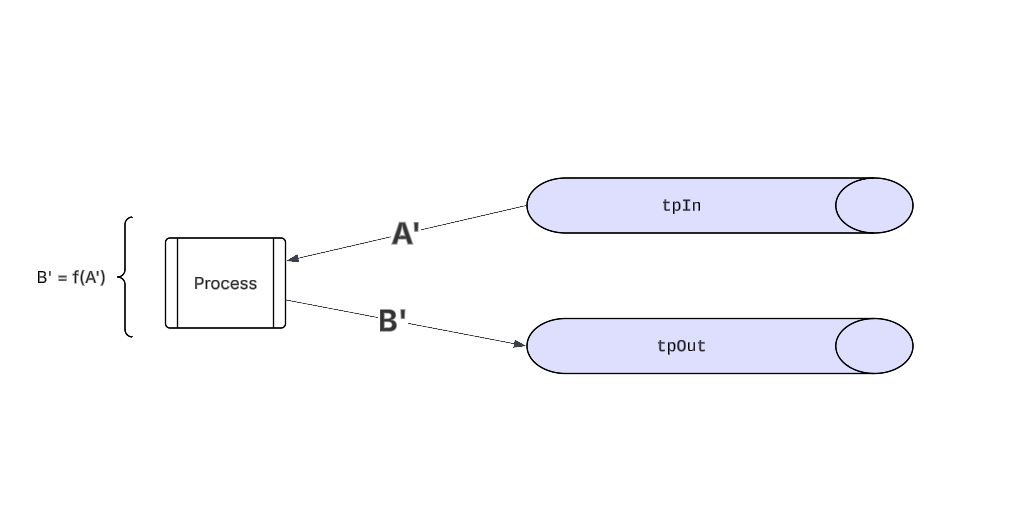
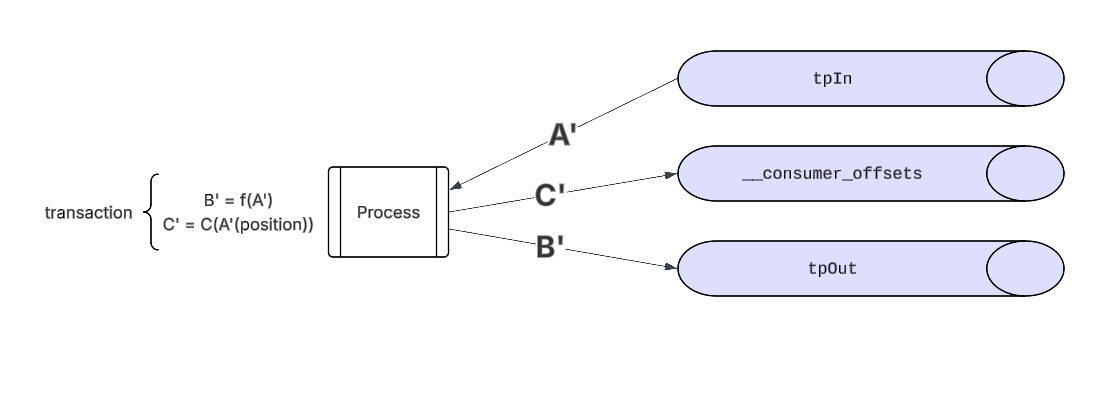
[draft] finished draft
- spell check
- rephrases and summaries
- pictures and formatting

diff --git a/drafts/eos_transactions.md b/drafts/eos_transactions.md
@@ -1,54 +1,61 @@
-Kafka provides developers an ecosystem in where millions of messages can be processed in a distributed fashion - allowing teams to build massive data ingestions platforms. One of the key aspects, not only to Kafka, but to any distributed messaging platform - is message delivery semantics. Defining these semantics is important, because it requires the developer to think about what happens to a message under failure. Failure happens all the time, so it's important to ask this question.
+---
+title: Kafka EOS and Transactions with Rust
+blurb: Dive into Kafka's delivery semantics, and learn how exactly once semantics are implemented with Kafka's transactional API, with examples written in Rust.
+---
+Kafka provides developers an ecosystem in where millions of messages can be processed in a distributed fashion - allowing teams to build massive data ingestion platforms. One of the key aspects, not only to Kafka, but to any distributed messaging platform - is message delivery semantics. Defining these semantics is important, because it requires the developer to think about what happens to a message under failure - which happens all the time.
 
-Kafka provides three delivery semantics out of the box, which can be configured directly onto the producer's configuration - all three with different use cases. There are
-    - *at most once* semantics - which offers the highest throughput of sent messages - but the least durability of written messages.
-    - *at least once* semantics - offers strong durability of written messages - messages are always written. However under failures messages could be duplicated.
-    - *exactly once* semantics - offers the strongest durability of written messages - messages are written exactly once - even under failure.
+Kafka provides three delivery semantics out of the box, which can be configured directly onto the producer's configuration - all three with different use cases. They are
+
+- *at most once* semantics: offers the highest throughput of sent messages - but the least durability of written messages.
+
+- *at least once* semantics: offers strong durability of written messages - messages are always written. However under failures messages could be duplicated.
+
+- *exactly once* semantics: offers the strongest durability of written messages - messages are written exactly once - even under failure.
 
 *at most once* and *at least once* semantics are the easiest to configure - both just require fine tuning various settings on the Kafka producer/consumer. However - for *exactly  once* semantics - it requires fine tuning settings on both the kafka producer **and** consumer, as well as writing application side code for transactions that enable *exactly once* **processing and delivery** of messages.
 
-> side note - these semantics apply to both the **delivery** of a message by a producer - and the **receipt/processing** of a message from the consumer. These semantics can be mixed and matched with each other if different guarantees are needed for the **flow** of delivery -> processing work cycle. *exactly once* semantics is able to offer the strongest guarantees on **both** the producer and consumer.
+> side note - these semantics apply to both the **delivery** of a message by a producer - and the **receipt/processing** of a message from the consumer. These semantics can be mixed and matched with each other if different guarantees are needed for the **flow** of delivery &DoubleLongRightArrow; processing work cycle. *exactly once* semantics is able to offer the strongest guarantees on **both** the producer and consumer.
 
 # At Most Once Semantics and At Least Once Semantics
 Before getting to *exactly once* semantics - we'll go over the two basic settings on both the producer and consumer side.
 
 - *at most once semantics*:
     - **Delivery:** Messages are delivered to the topic at most once. Configuring *at most once* means that when a producer sends a message - it will only send the message at most one time. This means that the producer doesn't have to wait for an acknowledgement from the leader - and can process/send messages asynchronously without handling any retries or acknowledgements - providing the fastest throughput and latency of all the semantics. However in cases of a failure - messages can be lost.
-        - to configure *at most once semnatics*
+        - to configure *at most once semantics*
             - set `retries=0`
             - set `acks=0`, since you're not waiting for any acknowledgement from the leader.
             - set `enable.idempotence=false` - as setting it to true will conflict with the other settings. (Kafka will automatically set this for you)
         - In short - this can be seen as *fire and forget*
-    - **Processing:** Messages are read by the topic at most once - meaning once the consumer has polled the messages - it then commits the consumed offset offset (place in the partition) - and then processes the message. In event of failure, it's not guaranteed that each message will be proecssed. For example, if the consumer crashes after commiting it's offset - but before processing the messages - the consumer that takes over will continue where the other consumer left off - skipping the message.
-        - to configure *at most once semantics* - you usually want to commit offsets before processing messages - and that can be done within the application code.
+    - **Processing:** Messages are read by the topic at most once. After the consumer has polled the messages the consumed offset (place in the partition) is committed. Message processing can happen before or after the commit, depending on application logic. In event of failure, it's not guaranteed that each message will be processed. For example, if the consumer crashes after committing it's offset - but before processing the messages - the consumer that takes over will continue where the other consumer left off - skipping the message.
+        - to configure *at most once semantics* - you usually want to commit offsets after/before processing messages - and that can be done within the application code.
             - set `enable.auto.commit=false`, and commit right after you poll/batch the messages.
         - it's best to let the consumer handle the auto commit - unless you need **exact** *at most once* semantics.
-            - set `enable.auto.commit=true` - however this could process messages multiple times (*at least once*). This could happen when the consumer has consumed a message - but processed them before commiting. Therefore when a consumer dies while processing the messages - but before committing them - the consumer that takes over will reprocess those messages.
+            - set `enable.auto.commit=true` - however this could process messages multiple times (*at least once*). This could happen when the consumer has consumed a message - but processed them before committing. Therefore when a consumer dies while processing the messages - but before committing them - the consumer that takes over will reprocess those messages.
 
 - *at least once semantics*:
-    - **Delivery:** Messages are delivered to the broker at least once. When configuring *at least once once*, when a producer sends a message, it will wait for the broker to acknowledge that message. Once the broker acknowledges that message - it means that the message has been written to that broker (topic) - and depending on the `ack` setting, been persisted to that topic.
+    - **Delivery:** Messages are delivered to the broker at least once. With *at least once once* delivery, when a producer waits for the broker to acknowledge that message. Once the broker acknowledges that message - it means that the message has been written to that broker (topic) - and depending on the `ack` setting, been persisted to that topic. If the acknowledgement fails the producer is free to retry sending the message.
         - to configure *at least once semantics*
             - set `retries` to the default settings (which is essentially unlimited retries)
             - set `delivery.timeout.ms` to an upper bound in `ms` that directly correlates to `retries`
-            - most importantly set `acks=all`. If `acks=0` - messages could be lost because the producer can send a message to the broker, but if the message fails to be delivered - or the broker failed, the producer will not wait for any acknowledgement - and the `retries` setting will not be invoked. Additionally - if `acks=1`, then the leader will acknowledge that the message has been written without replicating it to the followers. Therefore a message could be lost if the leader acknowledges the message - but fails to replicate it to the followers then dies. When `acks=all` - in times of system failure - we know that a message has been successfully written/replicated to a topic because the leader will only acknowledge a successful message IF all replicas have acknowledged it.
+            - most importantly set `acks=all`. If `acks=0` - messages could be lost because the producer can send a message to the broker, but if the message fails to be delivered - or the broker failed, the producer will not wait for any acknowledgement - and the `retries` setting will not be invoked. Additionally - if `acks=1`, then the leader will acknowledge that the message has been written without replicating it to the followers. Therefore a message could be lost if the leader acknowledges the message - but fails to replicate it to the followers then dies. When `acks=all` - in times of system failure - we know that a message has been successfully written/replicated to a topic because the leader will only acknowledge a successful message **IF** all in-sync replicas have acknowledged it.
         > Optionally set `enable.idempotence=true`. This setting is generally already set to true - and enables that the producer will have only one copy the message written to the broker. This also effectively sets the delivery semantics to *exactly once* on the producer's side. We will go over this more in the *exactly once* section.
-        - therefore with this configuration, messages are delivered one or more times. In the chance of a system failure - messages are never lost - but may be delivered more than once. With idempotence enabled - you've also configured *exactly once* on the producer side.
-        > also in practice you set `retries` to a high number, and set `request.delivery.timeout` to set the duration a producer will retry a message.
+        -  messages are delivered one or more times. In the chance of a system failure - messages are never lost - but may be delivered more than once. With idempotence enabled - you've also configured *exactly once* on the producer side.
+        > also in practice you set `retries` to a high number (the default value), and set `request.delivery.timeout` to set the duration a producer will retry a message.
     - **Processing:** Messages are processed by the consumer at least once. In order to configure *at least once* for the consumer you'll have to be stricter on how you process messages from the topic-partition and how you commit offsets. To achieve this semantic, the consumer reads a set of messages, processes them, then commits the offsets.
-        - to configure *at least once* semantics - you usually want to commit offsets after processing messages. Therefore in the case of failing a batch - messages can be reconsumed at the same offset - or if the consumer fails before committing - it can start again at the same place. This means that messages will be processed at least once.
+        - to configure *at least once* semantics - you usually want to commit offsets after processing messages. Therefore in the case of failing a batch - messages can be re-consumed at the same offset - or if the consumer fails before committing - it can start again at the same place. This means that messages will be processed at least once.
             - set `enable.auto.commit=false`, and commit offsets after you process the messages.
 
 # Failure Scenarios
 
 Let's go over some common failure scenarios that can occur during message delivery to a topic.
 
-## A) Message Ack Fails, But is written to the log
+## A) Message Ack Fails, But Is Written to the Log
 
 # ![](/static/pictures/eos_images/diag-f-0.png){.align-center} 
 
-A producer could send over a message to the leader of the topic partition, and the leader is able to successfuly write and replicate that record to the log. The leader then sends an acknowledgement back to the producer, but that acknowledgement is lost for what ever reason. If your producer is configured with retries then the producer will retry the produce message, and the message will be written twice into the topic partition.
+A producer could send over a message to the leader of the topic partition, and the leader is able to successfully write and replicate that record to the topic log. The leader then sends an acknowledgement back to the producer, but that acknowledgement is lost for what ever reason. If your producer is configured with retries then the producer will retry the produce message, and the message will be written twice into the topic partition.
 
-## B) Producer Fails While Processing Messages
+## B) Producer Crashes While Processing Messages
 
 # ![](/static/pictures/eos_images/diag-f-1.png){.align-center} 
 A producer could be in the process of producing many messages to the topic partition, however it crashes half way through. However based on the producer's application code what should it do? Should it restart from where it left off - which could reintroduce duplicates? If you're going for *at least once* delivery semantics, that would be the way to go, or if you're going for *at most once* delivery semantics - you would pick up from where it crashes.
@@ -56,46 +63,55 @@ A producer could be in the process of producing many messages to the topic parti
 # ![](/static/pictures/eos_images/diag-f-2.png){.align-center} 
 > Restarting the producer instance caused the duplicate batch to send again.
 
-## C) Consumer Fails While Processing Messages
+## C) Consumer Crashes While Processing Messages
 
 # ![](/static/pictures/eos_images/diag-f-3.png){.align-center} 
 A consumer could fail while in the process of consuming messages from a topic partition. In the event that the consumer crashes before committing their offset - when the consumer is started up again then it will consume the same records again - which introduces duplicates on the consumer side.
 
+---
 
-As you can see, failures can happen during the producer, broker, and consumer side. Depending on how you've coded and configured the producer and consumer, you'll get different delivery and processing semantics on both ends. Depending on the requirements of your architecture - you may be satisfied to leave it off on *at least/most once* semantics - however some systems require stronger delivery semantics - such as *exactly once* in both it's delivery and processing guarantees in face of failures.
+As you can see, failures can happen during the producer, broker, and consumer workflow. Depending on how you've coded and configured the producer and consumer, you'll get different delivery and processing semantics on both ends. Depending on the requirements of your architecture - you may be satisfied to leave it off on *at least/most once* semantics - however some systems require stronger delivery semantics - such as *exactly once* in both it's delivery and processing guarantees in face of failures.
 
 
 # Exactly Once Semantics (EOS)
 
-Simply put, in a Kafka architecture *exactly once* means that a message is delivered *exactly once* to the broker - **and** processed *exactly once* by the consumer - even in the event of failure. This not only requires the correct Kafka configuration on the producer and consumer side, but also application logic on the producer and consumer code.
+Simply put, in Kafka *exactly once* means that a message is delivered *exactly once* to the broker - **and** processed *exactly once* by the consumer - even in the event of failure. This not only requires the correct Kafka configuration on the producer/consumer side, but also application logic implementing the transactional API.
 
-We mentioned earlier [insert link here] that the producer can actually implement *exactly once* delivery by setting `acks=all`, settings retries, and `enable.idempotence=true`. This ensures that a message has been delivered to a topic partition exactly one time. This helps solve scenario A) and broker failures. However this doesn't solve issues B) - as the Kafka producer API does not know the inner workings of your code - and doesn't solve issue C) since the consumer could fail and re process the messages again.
+We mentioned earlier that the producer can actually implement *exactly once* delivery by setting `acks=all`, retries to default, and `enable.idempotence=true`. This ensures that a message has been delivered to a topic partition exactly one time. This helps solve scenario **A)** and broker failures. However this doesn't solve issues **B)** - as the Kafka producer API does not know the inner workings of your code - and doesn't solve issue **C)** since the consumer could fail and reprocess the messages again.
 
 This is where Kafka transactions steps in.
 
 
 # Kafka Transactions
 
-Transactions in Kafka allow atomic multi-partition writes which will be reflected onto the consumer side. What this means is that a producer can create a transaction, write to many topics, and then commit or abort that transaction. If the producer committed that transaction - then the consumers reading from those topics will be able to read those messages. If the producer aborted that transaction - then the consumers reading from those topics will **not** read thoses messages.
+Transactions in Kafka allow atomic multi-partition writes. What this means is that a producer can create atomically write to many topics, and then commit or abort that transaction. If the producer committed that transaction - then the consumers reading from those topics will be able to read those messages. If the producer aborted that transaction - then the consumers reading from those topics will **not** read those messages.
 
 Ok, so a producer can now perform atomic writes (either all messages are readable or none are). So how exactly does that help for *exactly once* semantics?
 
-In many Kafka workflows, you'll have a process consuming messages from a kafka topic, performing some operation on them - and then producing output messages back into another kafka topic. This is called a *read - process - write* pattern. Processes that employ this pattern can send their consumed offsets back to the `__consumed_offsets` topic as part of the transaction process - which durably writes their position a topic partition if the transaction is committed. If - for some reason - that a process crashes before sending their consumed offsets to the transaction manager and committing, then the downstream consumers won't be able to see that process's produces (from a failed transaction) - which is what EOS provides to the consumed and produced messages. Messages that are *read - processed - produced* are wrapped up atomically and are only processed once. Essentially produces that are sent/created due to a batch processing of various messages are wrapped atomically with each other.
+In many Kafka workflows, you'll have a process consuming messages from a kafka topic, performing some operation on them - and then producing output messages back into another kafka topic. This is called a *read - process - write* pattern. Processes that employ this pattern can send their consumed offsets back to the `__consumed_offsets` topic **as part of the transaction process** - which durably writes their position if the transaction is committed. This is the piece of the puzzle that enables EOS.
+
+If - for some reason - that a process crashes before sending their consumed offsets to the transaction manager and committing, then the downstream consumers won't be able to see that process's produces (from a failed transaction) - which is what EOS provides to the consumed and produced messages. The process is now able to **retry** the transaction with the guarantee that downstream consumers will only see messages once if it succeeds.
+
 
 # ![](/static/pictures/eos_images/diag-pwc-0.png){.align-center} 
-Let's run over an example: let's say there's an input topic `tpIn` and an output topic `tpOut`. We have a process that reads in messages from `tpIn`, performs some function on that message, and produces out to `tpOut`. Message A' is marked consumed when offset X(A') is sent to the offsets topic and then committed. Message B' is mapped to the successful output of the transaction - and will only be seen by downstream consumers if the transaction was able to be completed. In fact - the producer could've sent to multiple different topic-partitions within the same transaction - and they'll only be seen by downstream consumers if the transaction was committed.
+Let's run over an example: let's say there's an input topic `tpIn` and an output topic `tpOut`. We have a process that reads in messages from `tpIn`, performs some function on that message, and produces out to `tpOut`. The process will then send it's consumed offsets, C(A'(position)), to `__consumer_offsets`. Message C' and B' are mapped to the transaction - and have become atomic.
+Upon a successful commit - downstream consumers will be able to see message B' - and the process's position will be durable saved. If there was any failure that occurred during the transaction process - then no messages will be sent out and the process is able to restart from it's previous offset.
 
-> It's important to note - downstream consumers will only read committed if `isolation.level=read_committed` is set. If it's set to `read_uncommitted` consumers will see aborted messages and messages that are still ongoing in a transaction.
-> It is also important to note that this *read - process -write* pattern only applies to within the Kafka Ecosystem - meaning the write portion of the pattern only applies to Kafka produces and doesn't apply to external systems processing.  
+> Downstream consumers will only read committed if `isolation.level=read_committed` is set. If it's set to `read_uncommitted` consumers will see aborted messages and ongoing transactional messages.
+
+> It is important to note that this *read - process -write* pattern only applies to within the Kafka Ecosystem - meaning the write portion of the pattern only applies to Kafka produces and doesn't apply to external systems processing.  
 
 ## Transactional.id
 
-Kafka introduces a `transactional.id` to help combat a zombie. Let's say that a consumer is lagging behind or we think that it has failed, and we bring up another consumer to perform the task. However now we have two processes that could be potentially producing multiple duplicate messages. Transactional id's help prevent this because the producer will have to register it's ID to the transactional coordinator on startup. When the same `transactional.id` is seen again, the coordinator will increase it's `epoch` - which the coordinator uses to mark which is the most recent producer. Any transaction operation with an older epoch is fenced and the application code could die gracefully.
+Kafka introduces a `transactional.id` to help combat a zombie. Let's say that a consumer is lagging behind or we think that it has failed, and we bring up another consumer to perform the task. However, now we have two processes that could be potentially producing multiple duplicate messages. Transactional id's help prevent this because the producer will have to register it's ID to a transactional coordinator on startup. When the same `transactional.id` is seen again, the coordinator will increase it's `epoch` - which the coordinator uses to mark which is the most recent producer. Any transaction operation with an older epoch is fenced and the application code could die gracefully.
 
 ## Transactions Workflow
 To help facilitate transactions, Kafka introduces a Transaction Coordinator (TXN Coordinator), a broker chosen to help facilitate requests from the Producers and other brokers.
+
+# ![](/static/pictures/eos_images/diag-tx-coord.png){.align-center} 
+
 1. Producer & Transaction Coordinator Interaction
-    - upon startup the producer chooses a `transactional.id` and initiates a transaction with the TXN Coordiantor. 
+    - upon startup the producer chooses a `transactional.id` and initiates a transaction with the TXN Coordinator. 
 
 2. Txn Coordinator
     - The TXN Coordinator keeps track of a transaction log - a durable kafka topic that keeps track of transaction state amongst many different transactions. The producer will send updates to the coordinator to write to this log.
@@ -115,13 +131,13 @@ Now that we have a basic understanding about Kafka EOS - I'll show you how to us
 
 ## Configuration
 To configure a transactional producer, you'll need to set
-    - `enable.idempotence=true`
-    - Set retries to a high number (leave default)`retries=2147483647`
-    - `acks=all`
-    - `transactional.id` - set a transactional ID for this process instance.
+- `enable.idempotence=true`
+- Set retries to a high number (leave default) `retries=2147483647`
+- `acks=all`
+- `transactional.id` - set a transactional ID for this process instance.
 To configure a transaction aware consumer, you should set
-    -`isolation.level=read_committed`
-    -`enable.auto.commit=false`
+-`isolation.level=read_committed`
+-`enable.auto.commit=false`
 
 The transactional producer and consumer should sit in the same process space in order for the transactional producer to be able to send the consumed offsets as part of the transaction
 
@@ -133,36 +149,36 @@ We'll be using the rdkafka Rust module to implement EOS transactions, however yo
 
 ## Transactional Producer API 
 
-Modern Kafka libraries will expose the transactional producer API methods through a Producer class. Taking a look into rdkafka's documentation https://docs.rs/rdkafka/latest/rdkafka/producer/trait.Producer.html, we can see that it exposes five methods that help manage transactions to the TXN(Transaction) Coordinator.
-    - `fn init_transactions<T: Into<Timeout>>(&self, timeout: T) -> KafkaResult<()>;`
-    - `fn begin_transaction(&self) -> KafkaResult<()>;`
-    - `fn send_offsets_to_transaction<T: Into<Timeout>>(
+Modern Kafka libraries will expose the transactional producer API methods through a Producer class. Taking a look into [rdkafka's documentation](https://docs.rs/rdkafka/latest/rdkafka/producer/trait.Producer.html), we can see that it exposes five methods that help manage transactions to the TXN(Transaction) Coordinator.
+- `fn init_transactions<T: Into<Timeout>>(&self, timeout: T) -> KafkaResult<()>;`
+- `fn begin_transaction(&self) -> KafkaResult<()>;`
+- `fn send_offsets_to_transaction<T: Into<Timeout>>(
         &self,
         offsets: &TopicPartitionList,
         cgm: &ConsumerGroupMetadata,
         timeout: T,
     ) -> KafkaResult<()>;`
-    - `fn commit_transaction<T: Into<Timeout>>(
+- `fn commit_transaction<T: Into<Timeout>>(
         &self,
         timeout: T,
     ) -> KafkaResult<()>;`
-    - `fn abort_transaction<T: Into<Timeout>>(&self, timeout: T) -> KafkaResult<()>;`
+- `fn abort_transaction<T: Into<Timeout>>(&self, timeout: T) -> KafkaResult<()>;`
 
 
-### init_transactions()
+#### init_transactions()
 When the process is started - it needs to initiate transactions with the transaction coordinator. This method only needs to be called once per start up - and performs some useful operations. First - it checks if `transactional.id` is set in the producer's configuration. If it isn't it will throw an error.
 <!-- <screenshot of that error> -->
 This method will ensure that any transactions initiated by a previous producer with the same `transactional.id` are completed. Any transactions left open by such previous producer will be aborted - and those stale instances will have their epoch bumped by the newest producer - effectively fencing off those producers. Once these method has been run successfully - messages that are sent by this producer can only be a part of a transaction.
 
-### begin_transactions()
+#### begin_transactions()
 This method begins a transaction, which will send a request to the TXN Coordinator to mark the TXN log as `begin_transaction`. If this method completes successfully - all messages sent will be apart of the transaction.
 
 Additionally at least one transaction operation must be performed before `transaction.timeout.ms` to avoid timing out the transaction. When a transaction times out - it will be aborted.
 
-### send_offsets_to_transactions
-This method is the magic that makes EOS transactions work within Kafka workflows. A successful call means that offset markers sent using this method - are bound to the transaction - and are comitted only if the transaction has been comitted successfully. Therefore - if there's an error - or a need to "roll back" sent messages - we can abort the transaction in order for downstream consumers (with `isolation.level=read_committed`) to skip these aborted messages. Upon producer restart we can process these messages again.
+#### send_offsets_to_transactions()
+This method is the magic that makes EOS transactions work within Kafka workflows. A successful call means that offset markers sent using this method - are bound to the transaction - and are committed only if the transaction has been committed successfully. Therefore - if there's an error - or a need to "roll back" sent messages - we can abort the transaction in order for downstream consumers (with `isolation.level=read_committed`) to skip these aborted messages. Upon producer restart we can process these messages again.
 
-### commit_transaction and abort_transaction
+#### commit_transaction() and abort_transaction()
 Mark the transaction as finished or aborted. Committing will let downstream consumers see the messages apart of that transaction, while aborting will hide these messages from those consumers.
     - committing will flush all outstanding messages (messages sent before this method was called). Messages that end up failing will throw an exception on this method, where the code has to then abort the transaction *if* the error is abortable. We'll go more in depth with this in the code.
     - aborting will purge all outstanding messages
@@ -201,7 +217,8 @@ fn create_consumer(brokers: &str, group_id: &str, topic: &str) -> LoggingConsume
     consumer
 }
 ```
-This configuration turns off the auto commit functionality of the consumer - which is important because we don't want to commit offsets before a transaction completes. Additionally we'll be using the `send_offsets_to_transactions` method to commit these offsets. Additionally the consumer should read committed messages in order to keep the EOS semantics alive - though it is optional to do. If `read_uncommitted` is set - then the consumer will read aborted messages.
+- This configuration turns off the auto commit functionality of the consumer - which is important because we don't want to commit offsets before a transaction completes.
+- consumer should read committed messages in order to keep the EOS semantics alive - though it is optional to do. If `read_uncommitted` is set - then the consumer will read aborted messages.
 
 ## Create Producer
 ```
@@ -217,7 +234,7 @@ fn create_producer(brokers: &str) -> FutureProducer {
 ```
 Sets the `transactional.id` and the `transaction.timeout.ms`. To choose a transactional ID - usually it's best to choose an ID that maps the process to it's assigned `topic-partition` - having an upper bound of the number of `topic-partitions` the producer is mapped to. Reason being - if a transaction ID is created from a producer that died - that created a new transactional ID - it doesn't reap the benefits of fencing.
 
-A list of all configurations can be seen here https://github.com/confluentinc/librdkafka/blob/master/CONFIGURATION.md
+A list of all configurations can be seen [here](https://github.com/confluentinc/librdkafka/blob/master/CONFIGURATION.md)
 
 
 ## Main Loop
@@ -274,7 +291,7 @@ A list of all configurations can be seen here https://github.com/confluentinc/li
                             Duration::from_secs(10)
                         ).expect("Failed to send offsets to transaction");
 
-                        // Commits the transaction - effectively commiting the consumer's offsets
+                        // Commits the transaction - effectively committing the consumer's offsets
                         // and letting downstream consumers read the messages
                         let commit_res = producer.commit_transaction(Duration::from_secs(2));
                         match commit_res {
@@ -320,34 +337,38 @@ Upon startup, the application will create the transactional producer and consume
 
 The application - before it performs any message consumption - will call `init_transactions`. 
 
-Once that completes - the application can now start processing messages. Within the `loop` block, the application will receive a message from the consumer, and then `begin_transaction`. The application will then perform some type of processing on the consumed message - either in parallel or concurrently (if processing IO). This example is not suitable for long running CPU bound tasks. Once the task has finished, the transactional producer will send that message off to the output topic.
+Once that completes - the application can now start processing messages. Within the `loop` block, the application will receive a message from the consumer, and then `begin_transaction`. The application will then perform some type of processing on the consumed message - either in parallel or concurrently (if processing IO).  Once the task has finished, the transactional producer will send that message off to the output topic.
+
+> This example is not suitable for long running CPU bound tasks.
 
 Once the message has been sent, the producer can send the consumer's consumed offsets along with the transaction, and then commit the transaction.
 
-This is the happy path - no errorrs, no brokers failing, no DNS errors, no socket timeouts, no parsing failures - no failures.
+This is the happy path - no errors, no brokers failing, no DNS errors, no socket timeouts, no parsing failures - no failures.
 
 ### Example
 
 Here we've set up a `kafka-console-producer.sh` and a `kafka-console-consumer.sh` which are scripts that kafka provides in it's `bin/` directory. These essentially produce/consumer messages off the specified topics. We've set up a local cluster and created two topics, `input-topic-0` and `output-topic-0`.
-<!-- <screenshot here> -->
+# ![](/static/pictures/eos_images/kafka-example-topics.png){.align-center} 
 
 We can now run our process specifying the input and output topics to consume and produce from. Below on the left screen, we've compiled and ran the example to ingest messages from `input-topic-0` and produce messages to `output-topic-0`. On the right screen we have the producer and consumer, which will receive messages from the example and produce messages from the example.
 
-<!-- <screenshot here> -->
+# ![](/static/pictures/eos_images/kafka-example-happy-setup.png){.align-center} 
 
-We see that we've sent the strings "hello" and "world" to `input-topic-0`, which is received by our program.
-The output clearly outlines our main loop. The rust-eos example waits until it receives a message from our `console-producer`. Once it receives the message - it will begin the transaction - and once that successfully returns we can now process the task safely. In this case it's producing it out to `output-topic-0`. If no errors occured in the `send_futs` then we know that all messages were sent and acked by the broker, thus in the `Ok(_)` block we could move on. The producer needs to associate the consumed offsets of the consumer with the transaction - which we can get from `consumer.position()`. If that message succeeds - we can successfully commit the transaction. After commiting the transaction we can now continue to receive messages.
-<screenshot here>
+In our console producer, let's send "hello" and "world" to `input-topic-0`, which is received by our program.
+# ![](/static/pictures/eos_images/kafka-example-happy-0.png){.align-center} 
+
+The output clearly outlines our main loop. The rust-eos example waits until it receives a message from our `console-producer`. Once it receives the message - it will begin the transaction - and once that successfully returns we can now process the task safely. In this case it's producing it out to `output-topic-0`. If no errors occurred in the `send_futs` then we know that all messages were sent and acked by the broker, thus in the `Ok(_)` block we could move on. The producer needs to associate the consumed offsets of the consumer with the transaction - which we can get from `consumer.position()`. If that message succeeds - we can successfully commit the transaction. After committing the transaction we can now continue to receive messages.
 
 ### `kafka-transactions.sh`
 
 Kafka provides a nifty script called `kafka-transactions.sh` in where you could see ongoing transactions within the cluster.
 <!-- <screenshot kafka-ts-0> -->
+# ![](/static/pictures/eos_images/kafka-ts-sh-0.png){.align-center} 
 Here we can see the CoordinatorId - which is the transaction leader(broker) that is responsible for the transaction. Additionally we can see our `transactional.id` and producer's epoch. If we restart our example eos binary we'll see that the epoch will get bumped to 10.
-<!-- <screenshot kafka-ts-1> -->
-Restarting the binary.
-<!-- <screenshot kafka-ts-2> -->
-> we can can also see that it's transaction state is `Empty`. This means that the transaction has been registered with the coordinator - however no transaction has begun - therefore any produces without beggining will run into an erroneous state error.
+# ![](/static/pictures/eos_images/kafka-ts-sh-1.png){.align-center} 
+> Restarting the binary.
+# ![](/static/pictures/eos_images/kafka-ts-sh-2.png){.align-center} 
+> we can can also see that it's transaction state is `Empty`. This means that the transaction has been registered with the coordinator - however no transaction has begun - therefore any produces without beginning will run into an erroneous state error.
 
 
 
@@ -357,15 +378,15 @@ Now that we're familiar with the happy path - we need to go through the examples
 
 > these next examples will have the same loop as specified above, I'll just be adding in prints and panics in various places to show case different types of errors.
 
-### Duplicate transactional ID
+### Duplicate Transactional ID
 
-Let's say that we have two instances of the rust-eos binary - that both share the same transactional id. Let's also assume they are exact copies of each other - and ingest from the same input and output topics - in our example `input-topic-0`. For the sake of simplicity - we'll also assume that these binaries don't share the same consumer group - therefore both can ingest from `input-topic-0` at the same time. Ok what does this mean? If both of these processes share the same transactional.id - you're enabling EOS across both processes - however if the consumer groups are different you're essentially processing messages fromm `input-topic-0` twice. In this case - the rust-eos process that has the latest epoch will fence out the older rust-eos process. Only **one** of these processes will process the messages. 
+Let's say that we have two instances of the rust-eos binary - that both share the same transactional id. Let's also assume they are exact copies of each other - and ingest from the same input and output topics - in our example `input-topic-0`. For the sake of simplicity - we'll also assume that these binaries don't share the same consumer group - therefore both can ingest from `input-topic-0` at the same time. Ok what does this mean? If both of these processes share the same `transactional.id` - you're enabling EOS across both processes - however if the consumer groups are different you're essentially processing messages fromm `input-topic-0` twice. In this case - the rust-eos process that has the latest epoch will fence out the older rust-eos process. Only **one** of these processes will process the messages. 
 
 Let's see it in this example. We have two eos-rust processes, which share the same transactional id, but different group id's.
-<!-- <screenshot dup-ts-id-0> -->
+# ![](/static/pictures/eos_images/dup-ts-id-0.png){.align-center} 
 
 Sending "hello" to `input-topic-0` will result in one of these processes being `FENCED`.
-<!-- <screenshot dup-ts-id-1> -->
+# ![](/static/pictures/eos_images/dup-ts-id-1.png){.align-center} 
 We can see that both of the processes consumed from the input topic, however the one with the oldest epoch is the only one that processed the message. The other process that was FENCED just closes out.
 
 Ok that's cool - what if the processes are within the same consumer group?
@@ -373,18 +394,58 @@ Ok that's cool - what if the processes are within the same consumer group?
 Well that's pretty similar - remember only one producer with a mapped transactional id can produce to the transaction - even if it's mapped to consume from different/same topic-partitions.
 When two processes are consuming the same topic-partition - only the one with the newest epoch will be able to process the messages. Even if the process with the newest epoch doesn't receive the messages initially (due to consumer group rebalancing) - it will be able to process the messages once it's able to be assigned.
 
-# ![hello](/static/pictures/eos_images/dup-ts-id-5.png){.align-center} 
+# ![](/static/pictures/eos_images/dup-ts-id-5.png){.align-center} 
 Let's look at this above screen shot that shows how a zombie process works
-    - 1) We've launched the rust-eos process here. We can see that it's assigned to `input-topic-0` at partition 0. When 2) joined - it breifely rebalanced the consumers - but then was able to still keep the same partition.
-    - 2) is created at a later point in time - thus has a higher epoch
+1. We've launched the rust-eos process here. We can see that it's assigned to `input-topic-0` at partition 0. When 2. joined - it briefly rebalanced the consumers - but then was able to still keep the same partition.
+2. is created at a later point in time - thus has a higher epoch
     - we then sent messages to the input topic.
-    - 3) We see that 1) receives the message and tries to perform the transactional loop - however it gets fenced, and exits.
-    - 4) Now the fresher instance 2) is assigned to partition 0 and is able to process those messages.
+3. We see that 1. receives the message and tries to perform the transactional loop - however it gets fenced, and exits.
+4. Now the fresher instance 2. is assigned to partition 0 and is able to process those messages.
 
 We can clearly see that only the newest instance with the same `transactional.id` is able to perform **transactional** operations **within** kafka.
 
 ### Task workload failures
+If the rust-eos process crashes during message processing, regardless if it happened before or after the producer send, the restarted instance will pick off where the consumer left off.
+```
+    if let Some(k) = m.key() {
+        record = record.key(k);
+    }
+    panic!("Fatal error seen while processing message");
+    producer.send(record, Duration::from_secs(1))
+```
+> adding a simulated panic before the producer send. This can easily just be a KafkaError returned from `producer.send`.
+# ![](/static/pictures/eos_images/task-f-0.png){.align-center} 
+> the rust-eos process failed, and did not send out a produce to the output topic.
 
-### Crashing after begin transaction
+When the process restarts, it re-consumes the message and will try again. Even though it tries again - due to our EOS semantics it will only be successfully processed once.
+# ![](/static/pictures/eos_images/task-f-1.png){.align-center} 
+
+It's important to remember that transactions are completed if the commit or abort methods go through.
 
 ### Commit or abort fails 
+
+During a commit or abort failure, the transaction is put into an invalid state. However this could happen due to the process crashing before the transaction could be completed, or errors in application code causes an invalid state. So what happens when the commit or abort fails?
+
+# ![](/static/pictures/eos_images/ts-f-0.png){.align-center} 
+We can see that the consumer was able to receive the message and begin the transaction - even sending the consumed offsets to the transaction coordinator. However it panicked before committing the transaction.
+
+Using `kafka-transactions.sh`, we can check that state it was left in the transaction log.
+# ![](/static/pictures/eos_images/ts-f-1.png){.align-center} 
+
+The process left the transaction state in Ongoing, and we can also see that it sent the message out to two topic partitions, `__consumer_offsets-38` and `output-topic-0-0`. Downstream consumers still do not see the message because the transaction has not completed (and in `read_committed` mode). The transaction will be left open until our configured `transaction.timeout.ms` time has expired - where the transaction coordinator will then preemptively abort the transaction.
+> note when aborting the transaction the broker is configured to check every `transaction.abort.timed.out.transaction.cleanup.interval.ms`, which is why it seems to exceed `transaction.timeout.ms`.
+
+If we start up the process again within that window - we'll actually get a warning when `init_transactions`. This will fence out any previous transaction operations, and then continue to acquire the internal producer ID and update it's epoch.
+# ![](/static/pictures/eos_images/ts-f-2.png){.align-center} 
+
+If we look carefully, we can also see that the CurrentTransactionStartTimeMS is the same across epochs, because the restarted instance is technically carrying over the same transaction from the previous instance. However - we get that warning because the epoch has been bumped.
+# ![](/static/pictures/eos_images/ts-f-3.png){.align-center} 
+
+
+# Improvements and Next Steps
+
+Our implementation of EOS transactions in Rust can be greatly improved. You might have noticed that the workflow is essentially a two phase commit process, and that our main loop commits every single time a message is received by the consumer. We can greatly improve the processing time by implementing batching - to commit after X messages are consumed.
+
+In our example - we mainly panic in the face of errors, and issue a restart pattern. That could be fine, but we can also implement different techniques to retry failed messages without restarting the process.
+
+Additionally, it's important to note that EOS that we've covered today is only applicable within the Kafka ecosystem. Operations on messages that touch external databases, API's, etc aren't guaranteed to be exactly once. I hope to cover how to employ EOS for external processes in Kafka in a future article.
